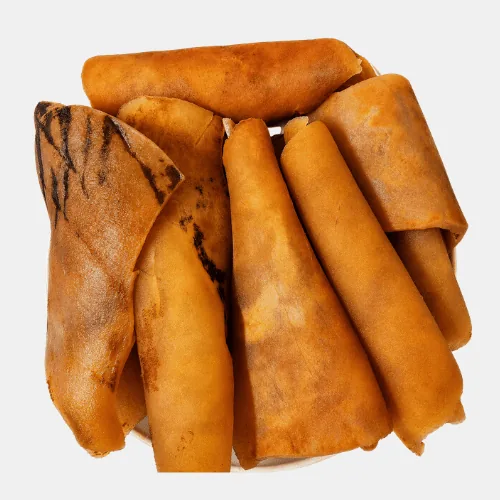
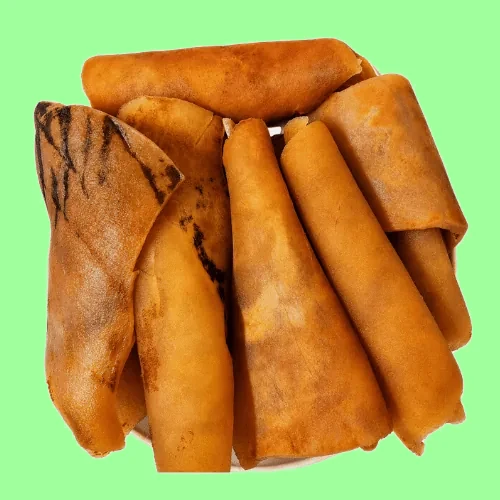
update ponmo card

diff --git a/frontend/src/hooks/useInventory.js b/frontend/src/hooks/useInventory.js
@@ -18,10 +18,20 @@ function mergeWithLocalImages(remoteProducts) {
       ...remote,
       image: local?.image ?? null,
       tone: local?.tone ?? remote.tone ?? null,
-      options: remote.options.map((opt, i) => ({
-        ...opt,
-        image: opt.image ?? local?.options?.[i]?.image ?? local?.image ?? null,
-      })),
+      options: remote.options.map((opt, i) => {
+        // Match by option id first so labels/images stay correct even if
+        // option order changes; fall back to position for older data.
+        const localOpt =
+          local?.options?.find((o) => o.id === opt.id) ?? local?.options?.[i];
+        return {
+          ...opt,
+          // Labels are presentation text owned by the codebase, so a label
+          // change (e.g. Ponmo "₦500" -> "Small") shows up immediately
+          // without the KV catalog needing to be re-saved.
+          label: localOpt?.label ?? opt.label,
+          image: opt.image ?? localOpt?.image ?? local?.image ?? null,
+        };
+      }),
     };
   });
   return [...merged, ...missingLocal];

diff --git a/frontend/src/components/Contact.jsx b/frontend/src/components/Contact.jsx
@@ -8,7 +8,7 @@ export default function Contact() {
       <div className="container contact__row">
         <div>
           <span className="section-kicker">SKIP THE MARKET</span>
-          <h2>You only needed meat. So why did it take all afternoon?</h2>
+          <h2>You only needed fish. So why did it take all afternoon?</h2>
           <p>
             Leave the house. &rarr; Find transport. &rarr; Get to the market. &rarr; Search around.&rarr; Negotiate. &rarr;
             Carry everything back.

diff --git a/frontend/src/data/products.js b/frontend/src/data/products.js
@@ -244,8 +244,8 @@ export const PRODUCTS = [
     tone: "green",
     soldBy: "unit",
     options: [
-      { id: "500", label: "₦500", price: 500, image: ponmo500 },
-      { id: "1000", label: "₦1000", price: 1000, image: ponmo1000 },
+      { id: "500", label: "Small", price: 500, image: ponmo500 },
+      { id: "1000", label: "Big", price: 1000, image: ponmo1000 },
     ],
     inStock: true,
   },

diff --git a/frontend/src/components/ProductCard.jsx b/frontend/src/components/ProductCard.jsx
@@ -17,7 +17,7 @@ export default function ProductCard({ product, variant = "green" }) {
     (line) => line.productId === product.id && line.optionId === selected?.id
   )?.qty;
 
-  const pillLabel = product.soldBy === "unit" ? "Pack size" : "Weight";
+  const pillLabel = product.soldBy === "unit" ? "Size" : "Weight";
   const displayImage = selected?.image || product.image;
 
   function handleAdd() {
